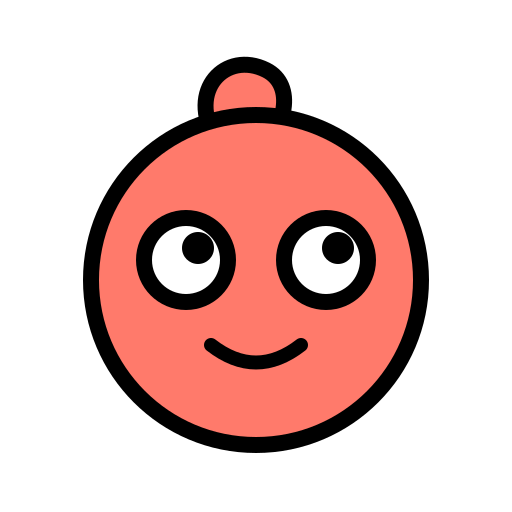
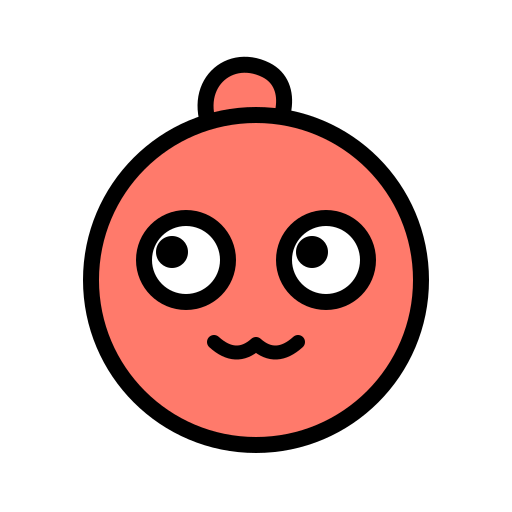
styles

Changed region(s): [[0.375, 0.6562, 0.625, 0.7188], [0.5625, 0.4375, 0.6875, 0.5312], [0.2812, 0.4375, 0.4375, 0.5312]]

diff --git a/src/components/landing/AvatarShowcase.tsx b/src/components/landing/AvatarShowcase.tsx
@@ -6,9 +6,15 @@ import Image from "next/image";
 /**
  * Landing-page-only showcase of the blob-character avatar set. Pulls in
  * the same four avatars already used around the marketing page (Wave,
- * Volt, Ember, Nova — see AppUICalls.tsx / BasicsCovered.tsx) plus six
+ * Volt, Ember, Nova — see AppUICalls.tsx / BasicsCovered.tsx) plus eleven
  * new characters drawn in the same style so the roster reads as one
  * consistent set, not a mismatched add-on.
+ *
+ * Laid out as three rows of five, each row with its own eye direction +
+ * mouth shape so the set doesn't read as fifteen clones of one template:
+ *   Row 1 (Wave, Volt, Ember, Nova, Iris)        — straight eyes, soft smile
+ *   Row 2 (Blaze, Luna, Rusty, Sage, Comet)      — eyes right, open grin
+ *   Row 3 (Pixel, Cobalt, Marigold, Slate, Coral) — eyes left, cheeky smirk
  */
 
 interface AvatarEntry {
@@ -18,26 +24,24 @@ interface AvatarEntry {
 }
 
 const AVATARS: AvatarEntry[] = [
+  // Row 1 — straight eyes, soft smile
   { name: "Wave", img: "/assets/sq.png", color: "#2E6FF2" },
   { name: "Volt", img: "/assets/pi.png", color: "#FFD23F" },
   { name: "Ember", img: "/assets/ch.png", color: "#FF3D8A" },
   { name: "Nova", img: "/assets/bu.png", color: "#38D66B" },
   { name: "Iris", img: "/assets/iris.png", color: "#B073FF" },
+  // Row 2 — eyes right, open grin
   { name: "Blaze", img: "/assets/blaze.png", color: "#FF8C42" },
   { name: "Luna", img: "/assets/luna.png", color: "#22D3EE" },
   { name: "Rusty", img: "/assets/rusty.png", color: "#FF4136" },
   { name: "Sage", img: "/assets/sage.png", color: "#14B8A6" },
   { name: "Comet", img: "/assets/comet.png", color: "#FFB703" },
+  // Row 3 — eyes left, cheeky smirk
   { name: "Pixel", img: "/assets/pixel.png", color: "#E930C6" },
   { name: "Cobalt", img: "/assets/cobalt.png", color: "#1447E6" },
   { name: "Marigold", img: "/assets/marigold.png", color: "#F5A623" },
   { name: "Slate", img: "/assets/slate.png", color: "#7C8798" },
   { name: "Coral", img: "/assets/coral.png", color: "#FF7A6B" },
-  { name: "Violet", img: "/assets/violet.png", color: "#8B5CF6" },
-  { name: "Mint", img: "/assets/mint.png", color: "#5EEAD4" },
-  { name: "Crimson", img: "/assets/crimson.png", color: "#B91C1C" },
-  { name: "Lagoon", img: "/assets/lagoon.png", color: "#06B6D4" },
-  { name: "Peach", img: "/assets/peach.png", color: "#FFB4A2" },
 ];
 
 export function AvatarShowcase() {
@@ -94,7 +98,7 @@ export function AvatarShowcase() {
         </div>
 
         <p className="text-center text-[#666] text-xs sm:text-sm mt-8">
-          Twenty to start. More drop in every season.
+          Fifteen to start. More drop in every season.
         </p>
       </div>
     </section>
